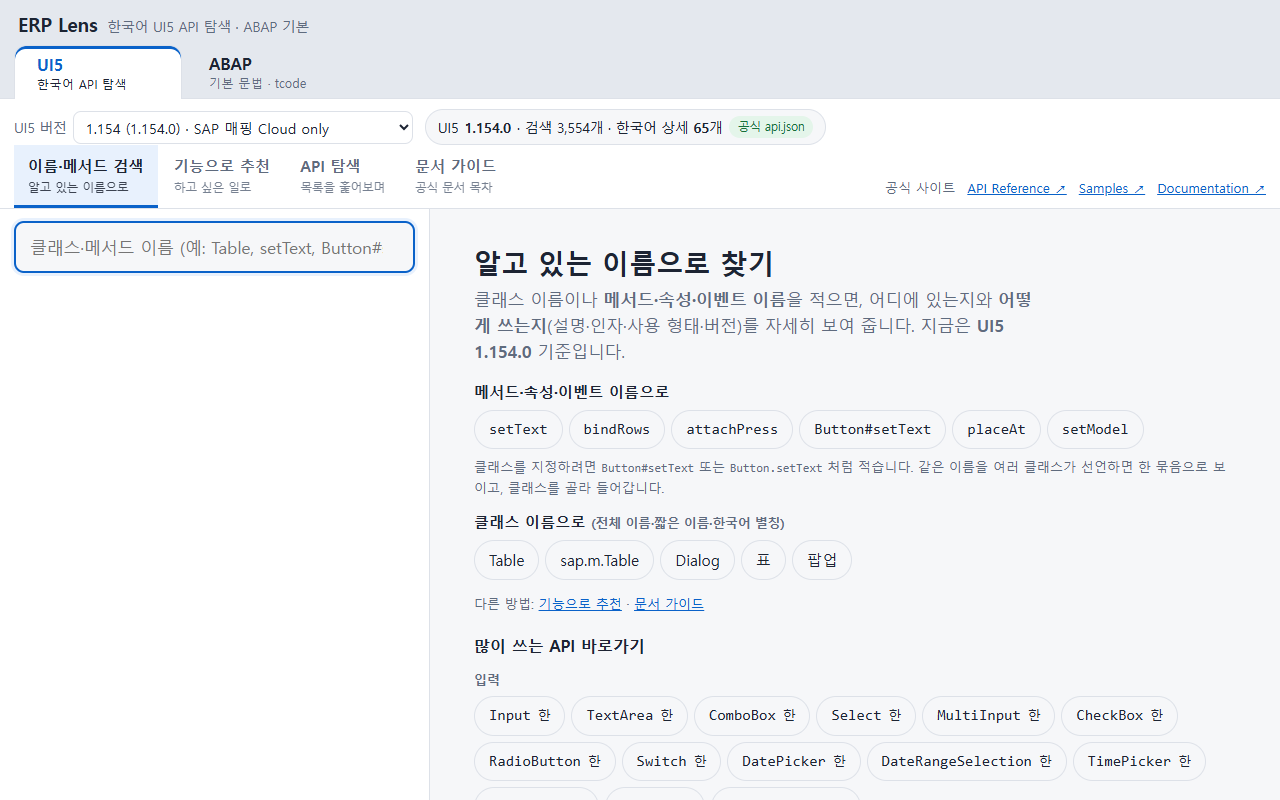
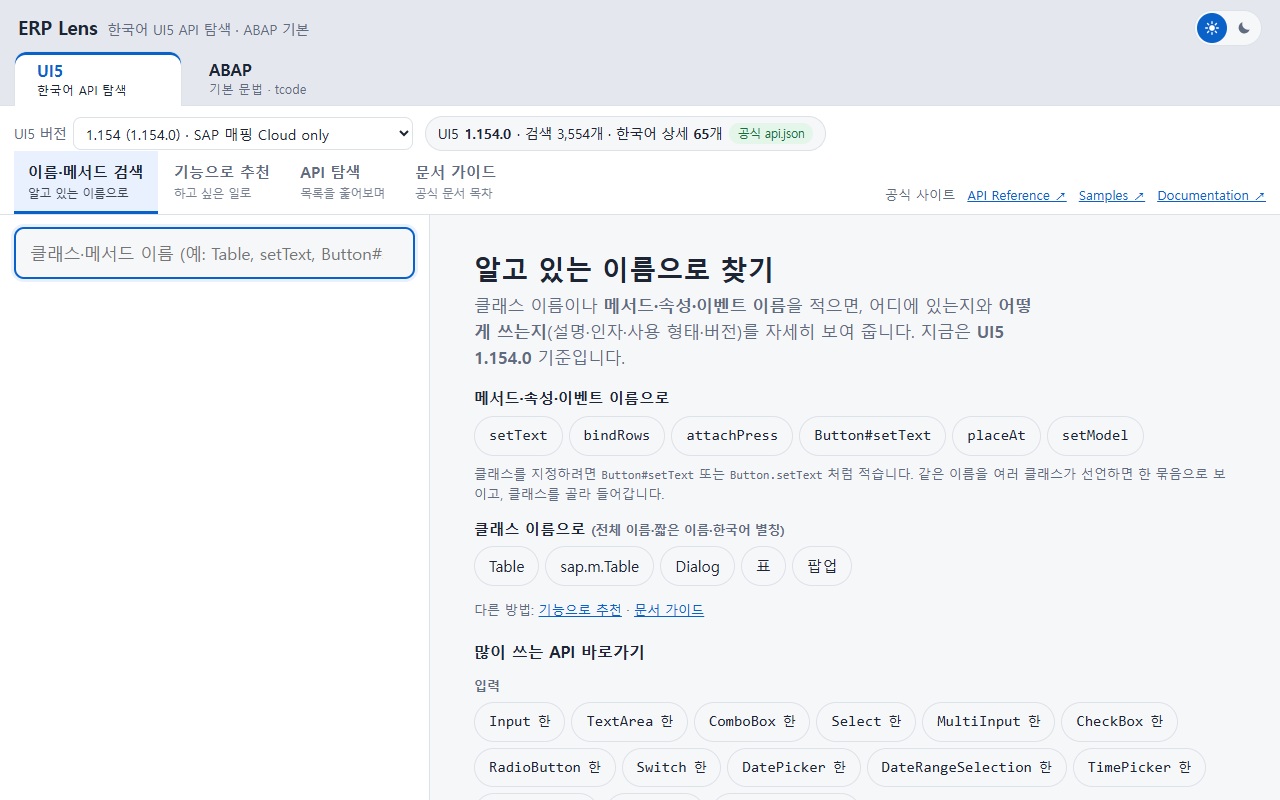
화면 모드 선택 추가: 첫 방문은 시스템 설정, 낮/밤 버튼 2개로 선택·저장. 문서 이미지를 라이트·다크 두 벌로 교체
- 순수 규칙 domain/theme.ts, 훅 controller/useTheme.ts, 버튼 shell/ThemeToggle.tsx
- 색 변수를 data-theme 로도 바꿀 수 있게 구조 변경(팔레트 값은 그대로, CSP 변경 없음)
- 단위 테스트 3개, E2E 12개 추가(단위 110, E2E 158)

diff --git a/src/styles.css b/src/styles.css
@@ -4,11 +4,20 @@
   --mono: ui-monospace, SFMono-Regular, Menlo, Consolas, monospace;
   --ui5: #0a62c9; --abap: #0b7a75; --abap-bg: #e1f4f2; --chrome: #e4e8ee; --on-accent: #fff;
 }
+/* 다크 색. 아래 두 규칙은 같은 값이다: 스크립트가 data-theme 을 달기 전(첫 로딩)에는 시스템 설정을, 달린 뒤에는 data-theme 을 따른다. */
 @media (prefers-color-scheme: dark) {
-  :root { --bg: #11151c; --panel: #1a202b; --ink: #e8ecf3; --muted: #9aa6ba; --line: #2c3544; --accent: #6fb0ff; --accent-bg: #172a45;
+  :root:not([data-theme]) { color-scheme: dark; --bg: #11151c; --panel: #1a202b; --ink: #e8ecf3; --muted: #9aa6ba; --line: #2c3544; --accent: #6fb0ff; --accent-bg: #172a45;
     --ok: #6fd392; --ok-bg: #12301f; --warn: #ffbf70; --warn-bg: #3a2a10; --dep: #ff9aa2; --dep-bg: #3b1a1e; --code-bg: #0a0e14;
     --ui5: #6fb0ff; --abap: #5fd1c8; --abap-bg: #123430; --chrome: #0e1218; --on-accent: #0a1220; }
 }
+:root[data-theme="light"] { color-scheme: light; }
+:root[data-theme="dark"] { color-scheme: dark; --bg: #11151c; --panel: #1a202b; --ink: #e8ecf3; --muted: #9aa6ba; --line: #2c3544; --accent: #6fb0ff; --accent-bg: #172a45;
+  --ok: #6fd392; --ok-bg: #12301f; --warn: #ffbf70; --warn-bg: #3a2a10; --dep: #ff9aa2; --dep-bg: #3b1a1e; --code-bg: #0a0e14;
+  --ui5: #6fb0ff; --abap: #5fd1c8; --abap-bg: #123430; --chrome: #0e1218; --on-accent: #0a1220; }
+.theme-toggle { margin-left: auto; display: inline-flex; gap: 2px; padding: 2px; border: 1px solid var(--line); border-radius: 999px; background: var(--bg); }
+.tt-btn { width: 30px; height: 30px; padding: 0; border: 0; border-radius: 50%; background: transparent; color: var(--muted); display: inline-flex; align-items: center; justify-content: center; cursor: pointer; }
+.tt-btn:hover { color: var(--ink); }
+.tt-btn[aria-pressed="true"] { background: var(--accent); color: var(--on-accent); }
 * { box-sizing: border-box; }
 html, body, #root { height: 100%; }
 body { margin: 0; background: var(--bg); color: var(--ink); font: 15px/1.55 system-ui, -apple-system, "Segoe UI", "Malgun Gothic", sans-serif; }

diff --git a/src/controller/useTheme.ts b/src/controller/useTheme.ts
@@ -1,0 +1,28 @@
+import { useCallback, useEffect, useState } from 'react';
+import { THEME_KEY, parseTheme, resolveTheme, type Theme } from '../domain/theme';
+
+const MQ = '(prefers-color-scheme: dark)';
+const readStored = (): Theme | null => { try { return parseTheme(localStorage.getItem(THEME_KEY)); } catch { return null; } };
+const writeStored = (t: Theme) => { try { localStorage.setItem(THEME_KEY, t); } catch { /* 저장 불가 환경이면 이번 방문에서만 유지 */ } };
+const systemDark = () => { try { return window.matchMedia(MQ).matches; } catch { return false; } };
+const apply = (t: Theme) => { document.documentElement.dataset.theme = t; };
+
+/** 첫 화면이 그려지기 전에 호출해 저장된 선택(없으면 시스템 설정)을 적용한다. 인라인 스크립트가 아니라 CSP 를 건드리지 않는다. */
+export function initTheme() { apply(resolveTheme(readStored(), systemDark())); }
+
+/** 현재 모드와 선택 함수. 고르기 전에는 시스템 설정 변화를 따라가고, 고른 뒤에는 고른 값이 우선한다. */
+export function useTheme() {
+  const [stored, setStored] = useState<Theme | null>(readStored);
+  const [sysDark, setSysDark] = useState<boolean>(systemDark);
+  useEffect(() => {
+    let mq: MediaQueryList;
+    try { mq = window.matchMedia(MQ); } catch { return; }
+    const on = (e: MediaQueryListEvent) => setSysDark(e.matches);
+    mq.addEventListener('change', on);
+    return () => mq.removeEventListener('change', on);
+  }, []);
+  const theme = resolveTheme(stored, sysDark);
+  useEffect(() => { apply(theme); }, [theme]);
+  const choose = useCallback((t: Theme) => { setStored(t); writeStored(t); }, []);
+  return { theme, choose };
+}

diff --git a/src/shell/ThemeToggle.tsx b/src/shell/ThemeToggle.tsx
@@ -1,0 +1,24 @@
+import { useTheme } from '../controller/useTheme';
+
+const Sun = () => (
+  <svg viewBox="0 0 24 24" width="16" height="16" aria-hidden="true" focusable="false">
+    <circle cx="12" cy="12" r="4.2" fill="currentColor" />
+    <path d="M12 2.5v2.6M12 18.9v2.6M2.5 12h2.6M18.9 12h2.6M5.3 5.3l1.8 1.8M16.9 16.9l1.8 1.8M5.3 18.7l1.8-1.8M16.9 7.1l1.8-1.8" stroke="currentColor" strokeWidth="2" strokeLinecap="round" fill="none" />
+  </svg>
+);
+const Moon = () => (
+  <svg viewBox="0 0 24 24" width="16" height="16" aria-hidden="true" focusable="false">
+    <path d="M20.5 14.2A8.5 8.5 0 0 1 9.8 3.5a8.5 8.5 0 1 0 10.7 10.7z" fill="currentColor" />
+  </svg>
+);
+
+/** 낮/밤 버튼 2개. 눌린 버튼이 지금 보이는 모드이고, 상태는 aria-pressed 로도 알린다. */
+export function ThemeToggle() {
+  const { theme, choose } = useTheme();
+  return (
+    <div className="theme-toggle" role="group" aria-label="화면 모드">
+      <button type="button" className="tt-btn" id="theme-light" aria-pressed={theme === 'light'} aria-label="라이트 모드" title="라이트 모드" onClick={() => choose('light')}><Sun /></button>
+      <button type="button" className="tt-btn" id="theme-dark" aria-pressed={theme === 'dark'} aria-label="다크 모드" title="다크 모드" onClick={() => choose('dark')}><Moon /></button>
+    </div>
+  );
+}

diff --git a/src/App.tsx b/src/App.tsx
@@ -13,6 +13,7 @@ import { AbapDetail, AbapGroups, AbapList, AbapZones, TcodeDetail, TcodeList, ab
 import { NameResults } from './shell/NameResults';
 import { FEATURE_QUICK } from './shell/quick';
 import { Scope } from './shell/Scope';
+import { ThemeToggle } from './shell/ThemeToggle';
 
 const LS_KEY = 'ui5lens.version';
 const lsGet = () => { try { return localStorage.getItem(LS_KEY) ?? ''; } catch { return ''; } };
@@ -101,6 +102,7 @@ function Shell({ g, vd, route, setRoute, onVersion }: { g: Global; vd: VersionDa
     <div className={`app ${hasDetail ? 'has-detail' : ''}`} data-product={product}>
       <header className="top">
         <div className="brand"><span className="logo">ERP Lens</span><span className="tag">한국어 UI5 API 탐색 · ABAP 기본</span></div>
+        <ThemeToggle />
       </header>
       <ProductTabs product={product} onProduct={onProduct} abapCount={abap.doc?.entries.length} tcodeCount={tcodes.doc?.entries.length} />
       <section className="ctx" id="ctx" role="tabpanel" aria-labelledby={`ptab-${product}`}>

diff --git a/test/theme.test.ts b/test/theme.test.ts
@@ -1,0 +1,21 @@
+import { test } from 'node:test';
+import assert from 'node:assert/strict';
+import { THEME_KEY, parseTheme, resolveTheme } from '../src/domain/theme.ts';
+
+test('저장값 해석: light·dark 만 인정하고 나머지는 "고른 적 없음"', () => {
+  assert.equal(parseTheme('light'), 'light');
+  assert.equal(parseTheme('dark'), 'dark');
+  for (const bad of [null, undefined, '', 'system', 'Dark', 'LIGHT', ' dark', 0, {}, []]) assert.equal(parseTheme(bad), null, String(bad));
+});
+
+test('모드 결정: 고른 값이 있으면 그것, 없으면 시스템 설정', () => {
+  assert.equal(resolveTheme(null, true), 'dark');
+  assert.equal(resolveTheme(null, false), 'light');
+  assert.equal(resolveTheme('light', true), 'light'); // 시스템이 다크여도 라이트를 고르면 라이트
+  assert.equal(resolveTheme('dark', false), 'dark');
+});
+
+test('저장 키는 다른 저장값(버전)과 겹치지 않는다', () => {
+  assert.equal(THEME_KEY, 'ui5lens.theme');
+  assert.notEqual(THEME_KEY, 'ui5lens.version');
+});

diff --git a/src/domain/theme.ts b/src/domain/theme.ts
@@ -1,0 +1,11 @@
+// 화면 모드(라이트·다크) 결정 규칙. 브라우저와 무관한 순수 함수라 단위 테스트로 확인한다.
+export type Theme = 'light' | 'dark';
+
+/** 사용자가 버튼으로 고른 값을 저장하는 localStorage 키 */
+export const THEME_KEY = 'ui5lens.theme';
+
+/** 저장된 값이 'light' 또는 'dark' 일 때만 인정한다. 그 외(없음·손상·다른 값)는 "고른 적 없음". */
+export const parseTheme = (v: unknown): Theme | null => (v === 'light' || v === 'dark' ? v : null);
+
+/** 고른 값이 있으면 그것, 없으면 시스템 설정을 따른다. */
+export const resolveTheme = (stored: Theme | null, systemDark: boolean): Theme => stored ?? (systemDark ? 'dark' : 'light');

diff --git a/src/main.tsx b/src/main.tsx
@@ -1,8 +1,10 @@
 import { StrictMode } from 'react';
 import { createRoot } from 'react-dom/client';
 import { App } from './App';
+import { initTheme } from './controller/useTheme';
 import './styles.css';
 
+initTheme();
 createRoot(document.getElementById('root')!).render(
   <StrictMode>
     <App />

diff --git a/docs/development-process.md b/docs/development-process.md
@@ -29,31 +29,37 @@
 
 **1. 첫 화면 (UI5 탭)**
 
-![첫 화면 목업](assets/mockups/01-home.png)
+<picture><source media="(prefers-color-scheme: dark)" srcset="assets/mockups/01-home-dark.png"><img alt="첫 화면 목업" src="assets/mockups/01-home.png"></picture>
 
 **2. 검색 결과와 API 상세**
 
-![상세 목업](assets/mockups/02-detail.png)
+<picture><source media="(prefers-color-scheme: dark)" srcset="assets/mockups/02-detail-dark.png"><img alt="상세 목업" src="assets/mockups/02-detail.png"></picture>
 
 **3. ABAP 문법 사전**
 
-![ABAP 문법 목업](assets/mockups/03-abap-syntax.png)
+<picture><source media="(prefers-color-scheme: dark)" srcset="assets/mockups/03-abap-syntax-dark.png"><img alt="ABAP 문법 목업" src="assets/mockups/03-abap-syntax.png"></picture>
 
 **4. tcode 사전**
 
-![tcode 목업](assets/mockups/04-abap-tcode.png)
+<picture><source media="(prefers-color-scheme: dark)" srcset="assets/mockups/04-abap-tcode-dark.png"><img alt="tcode 목업" src="assets/mockups/04-abap-tcode.png"></picture>
+
+**5. 화면 모드 선택 (라이트·다크)**
+
+<picture><source media="(prefers-color-scheme: dark)" srcset="assets/mockups/05-theme-toggle-dark.png"><img alt="화면 모드 목업" src="assets/mockups/05-theme-toggle.png"></picture>
+
+이 기능은 L08 순서(기획 → TO DO → 목업 → 코드)로 만든 첫 사례입니다. 목업을 세 번 고친 뒤(콤보박스 → 체크박스+아이콘 → 아이콘 2개) 코드를 썼습니다. 목업 수정 이력은 커밋 기록에 있습니다.
 
 ## 3. 실제로 만들어진 화면
 
-같은 화면을 구현한 결과입니다 (2026-11-19 캡처, `npm run docs:screens`). 목업보다 정보가 많습니다. 구조와 흐름이 목업과 같은지 비교해 보세요.
+같은 화면을 구현한 결과입니다 (2026-11-19 캡처, `npm run docs:screens`, 보는 사람의 라이트·다크 모드에 맞춰 이미지가 바뀝니다). 목업보다 정보가 많습니다. 구조와 흐름이 목업과 같은지 비교해 보세요.
 
-![첫 화면](assets/screens/01-home.png)
+<picture><source media="(prefers-color-scheme: dark)" srcset="assets/screens/01-home-dark.png"><img alt="첫 화면" src="assets/screens/01-home.png"></picture>
 
-![검색 결과와 상세](assets/screens/03-detail.png)
+<picture><source media="(prefers-color-scheme: dark)" srcset="assets/screens/03-detail-dark.png"><img alt="검색 결과와 상세" src="assets/screens/03-detail.png"></picture>
 
-![ABAP 문법 사전](assets/screens/04-abap-syntax.png)
+<picture><source media="(prefers-color-scheme: dark)" srcset="assets/screens/04-abap-syntax-dark.png"><img alt="ABAP 문법 사전" src="assets/screens/04-abap-syntax.png"></picture>
 
-![ABAP tcode 사전](assets/screens/05-abap-tcode.png)
+<picture><source media="(prefers-color-scheme: dark)" srcset="assets/screens/05-abap-tcode-dark.png"><img alt="ABAP tcode 사전" src="assets/screens/05-abap-tcode.png"></picture>
 
 ## 4. 코드 개발 흐름
 
@@ -69,8 +75,9 @@
 | 11-10 | 6. ABAP 추가 | ABAP 기본 탭(문법 사전 33개), 이름 검색에서 ABAP 항목 안내, 앱 이름을 ERP Lens로 변경 |
 | 11-13 | 7. 구조 개편 | 상단 탭(UI5 / ABAP), tcode 사전, 개념·환경 그룹 |
 | 11-14~19 | 8. ABAP 보강 | 수업 노트 기반으로 문법 65개, tcode 15개로 확장, 모듈화 그룹, 보안 점검 강화 |
+| 11-19 | 9. 화면 모드 | 라이트·다크 선택 버튼(첫 방문은 시스템 설정), 문서 이미지를 라이트·다크 두 벌로 교체. 기획 → TO DO → 목업 → 코드 순서로 진행한 첫 기능 |
 
-검증 숫자 (2026-11-19): 타입 검사 통과, 단위 테스트 107개 통과, E2E 145개 통과, ABAP 항목·링크 점검 80개 통과.
+검증 숫자 (2026-11-19): 타입 검사 통과, 단위 테스트 110개 통과, E2E 157개 통과, ABAP 항목·링크 점검 80개 통과.
 
 ## 5. 앞으로의 개발 순서
 

diff --git a/README.md b/README.md
@@ -4,9 +4,9 @@
 
 **바로 써 보기: https://ui5-lens-ten.vercel.app/** (설치 없이 브라우저에서 열림)
 
-> 학생 프로젝트입니다. 한국어 설명은 AI 가 만든 **초안**이라 틀릴 수 있고, 화면에 그 표시가 붙어 있습니다. 항목마다 공식 원문 링크가 있으니 확인하며 쓰세요.
+> 화면은 컴퓨터의 라이트·다크 설정을 따라가고, 오른쪽 위 해·달 버튼으로 직접 바꿀 수 있습니다. 학생 프로젝트입니다. 한국어 설명은 AI 가 만든 **초안**이라 틀릴 수 있고, 화면에 그 표시가 붙어 있습니다. 항목마다 공식 원문 링크가 있으니 확인하며 쓰세요.
 
-![첫 화면](docs/assets/screens/01-home.png)
+<picture><source media="(prefers-color-scheme: dark)" srcset="docs/assets/screens/01-home-dark.png"><img alt="첫 화면" src="docs/assets/screens/01-home.png"></picture>
 
 ## 무엇을 할 수 있나
 
@@ -16,13 +16,13 @@
 | **ABAP · 문법 사전** | ABAP 기본 문법 65개를 한 줄 설명, 예제, 주의점, 공식 링크로 봅니다 | `DATA`, `LOOP AT`, 내부 테이블 |
 | **ABAP · tcode 사전** | "테이블 보기" 같은 하고 싶은 일이나 `/nse38` 같은 명령으로 tcode 15개를 찾습니다 | `SE38`, `SE37`, `SE91` |
 
-![검색 결과와 상세](docs/assets/screens/03-detail.png)
+<picture><source media="(prefers-color-scheme: dark)" srcset="docs/assets/screens/03-detail-dark.png"><img alt="검색 결과와 상세" src="docs/assets/screens/03-detail.png"></picture>
 
-![ABAP 문법 사전](docs/assets/screens/04-abap-syntax.png)
+<picture><source media="(prefers-color-scheme: dark)" srcset="docs/assets/screens/04-abap-syntax-dark.png"><img alt="ABAP 문법 사전" src="docs/assets/screens/04-abap-syntax.png"></picture>
 
 ## 어떻게 만들었나
 
-기획 → TO DO → 설계(목업) → 코드 순서를 지키고, 단위 테스트(107개)와 브라우저 자동 시험(E2E 145개)으로 확인합니다. 모두 무료 도구로 내 PC에서 돌리며 비용은 0원입니다.
+기획 → TO DO → 설계(목업) → 코드 순서를 지키고, 단위 테스트(110개)와 브라우저 자동 시험(E2E 157개)으로 확인합니다. 모두 무료 도구로 내 PC에서 돌리며 비용은 0원입니다.
 
 - 설계·목업·개발 흐름 보기: [docs/development-process.md](docs/development-process.md)
 - 테스트와 E2E를 왜, 어디서, 얼마에 쓰는지: [docs/testing.md](docs/testing.md)

diff --git a/docs/testing.md b/docs/testing.md
@@ -13,8 +13,8 @@ E2E(End-to-End)는 "처음부터 끝까지"라는 뜻입니다. 프로그램이 
 | 시험 종류 | 무엇을 확인하나 | 이 프로젝트에서 | 한계 |
 |---|---|---|---|
 | 타입 검사 | 코드의 자료형이 맞는지 | `npm run typecheck` | 화면 동작은 모름 |
-| 단위 테스트 | 함수 하나가 맞는 값을 내는지 | `npm test` (107개, 1초 이내) | 함수들이 화면에서 이어졌을 때 되는지는 모름 |
-| **E2E** | **사용자 흐름이 브라우저에서 되는지** | `npm run test:e2e` (145개, 약 40초) | 느리고, 화면이 바뀌면 같이 고쳐야 함 |
+| 단위 테스트 | 함수 하나가 맞는 값을 내는지 | `npm test` (110개, 1초 이내) | 함수들이 화면에서 이어졌을 때 되는지는 모름 |
+| **E2E** | **사용자 흐름이 브라우저에서 되는지** | `npm run test:e2e` (157개, 약 40초) | 느리고, 화면이 바뀌면 같이 고쳐야 함 |
 
 ## 왜 E2E를 쓰는가
 
@@ -33,7 +33,7 @@ E2E(End-to-End)는 "처음부터 끝까지"라는 뜻입니다. 프로그램이 
 |---|---|
 | 도구 | Playwright(`playwright-core`, 무료 오픈소스) + 이미 설치된 Microsoft Edge |
 | 실행 위치 | **내 PC만.** `npm run dev`로 서버를 띄운 뒤 `npm run test:e2e` |
-| 규모 | 145개 확인 항목, 약 40초 |
+| 규모 | 157개 확인 항목, 약 40초 |
 | 자동 실행(CI) | **아직 안 함.** GitHub Actions는 타입 검사, 단위 테스트, 빌드, `npm audit`만 실행 |
 | 인터넷 | 예제 실행 항목은 UI5 CDN 접속이 필요 |
 | 확인 범위 | 4개 UI5 모드, 멤버 상세, 실패 주입, ABAP 문법 사전·tcode 사전, 모바일 폭, CSP 위반 0건 |

diff --git a/docs/implementation-status.md b/docs/implementation-status.md
@@ -36,8 +36,8 @@
 | 검사 | 결과 | 범위 |
 | --- | --- | --- |
 | TypeScript | 통과 | 앱 및 테스트 |
-| 단위 테스트 | 80개 중 80개 통과 (2026-11-19 현재 107개) | 도메인 로직, 라우트 입력 검증, 보안 설정 일치 |
-| 브라우저 E2E (개발 서버) | 109개 중 109개 통과 (2026-11-19 현재 145개) | 4개 모드, 멤버 상세, 실패 주입, 이전 흐름 회귀 |
+| 단위 테스트 | 80개 중 80개 통과 (2026-11-19 현재 110개) | 도메인 로직, 라우트 입력 검증, 보안 설정 일치 |
+| 브라우저 E2E (개발 서버) | 109개 중 109개 통과 (2026-11-19 현재 157개) | 4개 모드, 멤버 상세, 실패 주입, 이전 흐름 회귀 |
 | 브라우저 E2E (프로덕션 빌드 미리보기) | 110개 중 110개 통과 | 위 항목 + CSP 적용 빌드에서 위반 0건 |
 | HTML 정화기 공격 시험 | 30개 페이로드 모두 차단 | 정상 HTML 5종 보존, 대조 실험 포함 |
 | 전체 `npm run build` | 통과 | 자료 재빌드(31개 버전), 타입 검사, 단위 테스트, 번들 빌드 |
